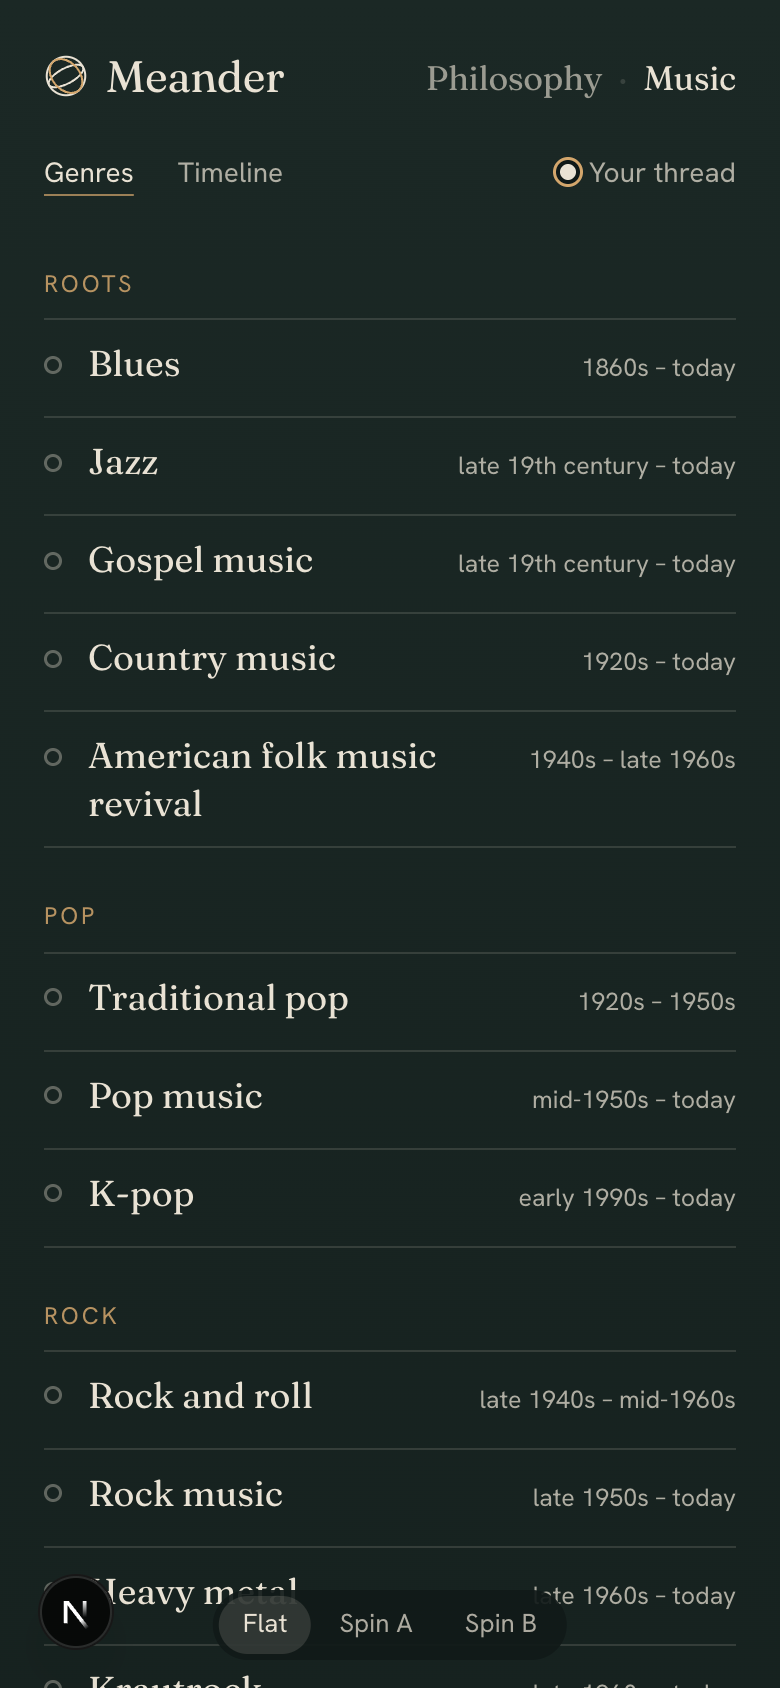
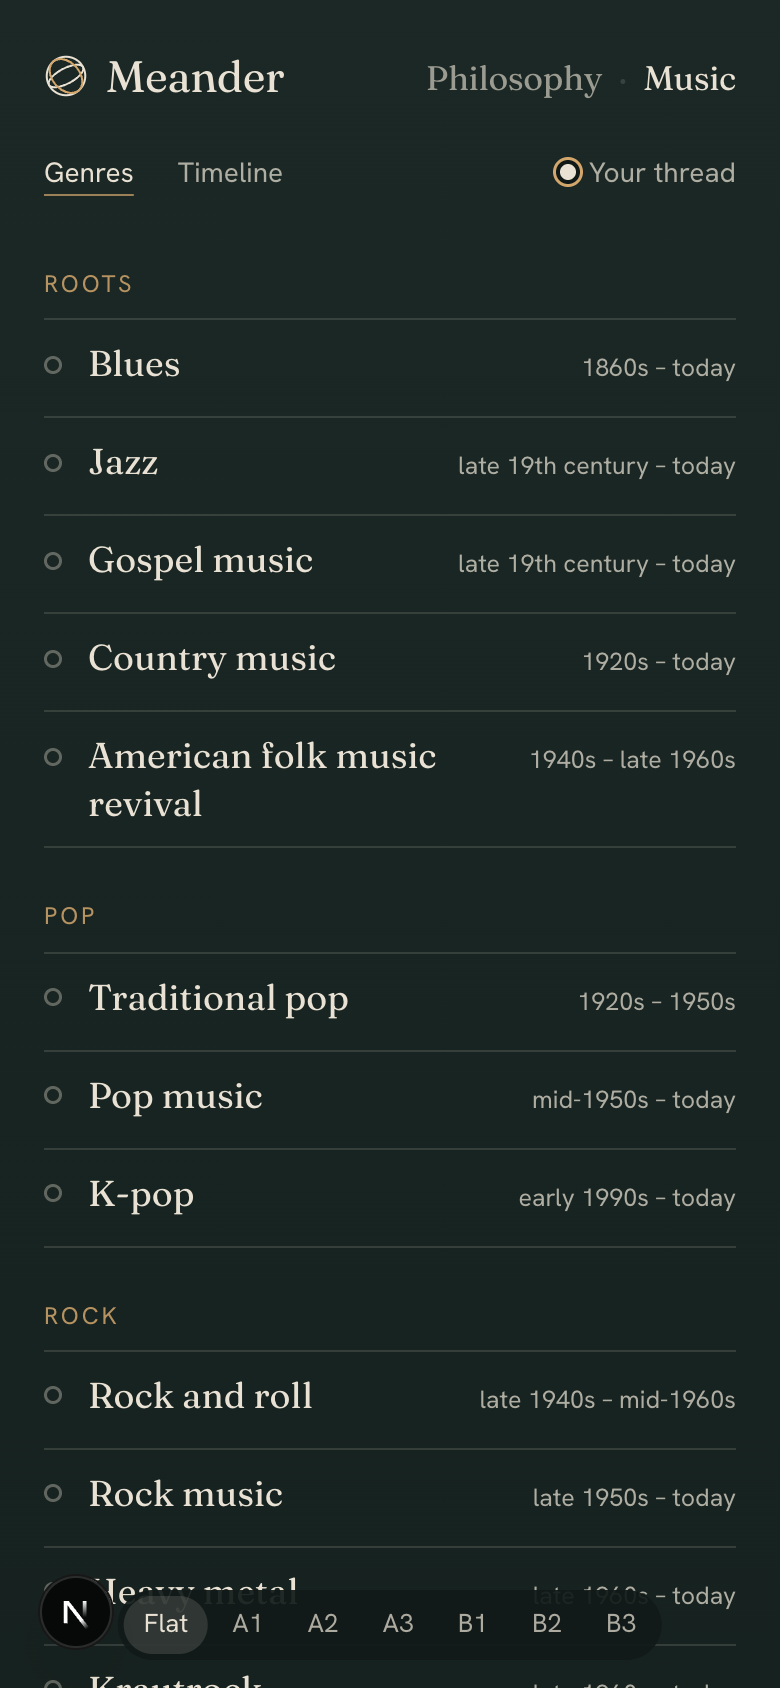
11 Meander: phase 5 prototype as two families of three globes (A light overview, B pure spin), contact sheets

diff --git a/apps/11-meander/src/components/spin-globe.tsx b/apps/11-meander/src/components/spin-globe.tsx
@@ -1,18 +1,35 @@
 "use client";
 
 // Phase 5 prototype (L62): a real globe you spin. The front half shows; drag spins it (with inertia), arrow keys
-// turn it, and opening a school turns it to the front. Mode "a" keeps a light overview: faint dots for the back
-// half, neighbours round the back pinned to the rim, and the family list as the whole map. Mode "b" is pure spin.
+// turn it, and opening a school turns it to the front. Two families of directions, three each:
+//  A, spin with a light overview (neighbours round the back always pinned to the rim):
+//   a1 faint back-side dots + "The whole map" family list; a2 a small flat mini-map of everything, with the part
+//   you face ringed; a3 family names floating over their regions, the back ones faint, plus back-side dots.
+//  B, pure spin (nothing stands in for the back half):
+//   b1 the plain globe; b2 close-up, a bigger globe rising from the bottom like a horizon; b3 spotlight, names only
+//   near the middle, so a name appears as you turn it towards you.
 // shortcut: prototype quality (no label cost search, no tab order by distance); rebuild properly once picked.
 import { useEffect, useLayoutEffect, useMemo, useRef, useState, type ReactNode } from "react";
 import { splitName, type Field } from "@/lib/content";
-import { vec, type Vec3 } from "@/lib/globe";
-import { arcPath, centroid, clampPitch, facingRot, graticule, lerpRot, ortho, placeSpinLabels, type Box, type Rot } from "@/lib/spin";
+import { GAMMA, RIM, project, vec, type Vec3 } from "@/lib/globe";
+import { arcPath, centroid, clampPitch, facingRot, frontOf, graticule, lerpRot, ortho, placeSpinLabels, type Box, type Rot } from "@/lib/spin";
+
+export type SpinVariant = "a1" | "a2" | "a3" | "b1" | "b2" | "b3";
+/** Families for music; Western and Eastern for philosophy. */
+export function groupsOf(field: Field) {
+  return field.families.length
+    ? field.families.map((f) => ({ id: f.id, name: f.name, schools: field.schools.filter((s) => s.family === f.id) }))
+    : [
+      { id: "west", name: "Western", schools: field.schools.filter((s) => s.tradition !== "eastern") },
+      { id: "east", name: "Eastern", schools: field.schools.filter((s) => s.tradition === "eastern") },
+    ];
+}
 import { stateLabel, type SchoolState } from "@/lib/progress";
+import type { GlobeMode } from "@/lib/globe-proto";
 
 type Props = {
   field: Field;
-  mode: "a" | "b";
+  mode: SpinVariant;
   focus: string | null;
   states: Map<string, SchoolState>;
   onOpen: (id: string) => void;
@@ -37,7 +54,12 @@ type Props = {
 const reduced = () => typeof window !== "undefined" && window.matchMedia("(prefers-reduced-motion: reduce)").matches;
 const ease = (t: number) => (t < 0.5 ? 4 * t * t * t : 1 - Math.pow(-2 * t + 2, 3) / 2);
 
-export function SpinGlobe({ field, mode, focus, states, onOpen, C, R, W, H, fixed, compact, inert, litIds, turnTo, idPrefix, children }: Props) {
+export function SpinGlobe({ field, mode, focus, states, onOpen, C: C0, R: R0, W, H, fixed, compact, inert, litIds, turnTo, idPrefix, children }: Props) {
+  const fam = mode[0] as "a" | "b";
+  // b2: a close-up globe rising from the bottom (back to normal size while a card is open, so it clears the card)
+  const big = mode === "b2" && !focus;
+  const R = big ? R0 * 1.42 : R0;
+  const C: [number, number] = big ? [C0[0], C0[1] + R0 * 0.38] : C0;
   const V = useMemo(() => Object.fromEntries(field.schools.map((s) => [s.id, vec(field.positions[s.id])])) as Record<string, Vec3>, [field]);
   const start = useMemo(() => {
     const r = facingRot(focus ? V[focus] : centroid(Object.values(V)));
@@ -157,7 +179,7 @@ export function SpinGlobe({ field, mode, focus, states, onOpen, C, R, W, H, fixe
   const sizeKey = (id: string) => `${id}|${near.has(id) ? 1 : 0}`;
   const sizeOf = (id: string) => sizes.get(sizeKey(id)) ?? { w: label(id).length * (near.has(id) ? 11 : 7.6), h: near.has(id) ? 44 : 19 };
   // Labels: neighbours first, then the nearest the front; none for the rim band, where names would squash.
-  const minZ = compact ? 0.42 : 0.34;
+  const minZ = mode === "b3" ? (compact ? 0.82 : 0.78) : compact ? 0.42 : 0.34;
   const wanted = front
     .filter((s) => near.has(s.id) || (!focus && P[s.id].z > minZ))
     .sort((a, b) => (near.has(a.id) ? 0 : 1) - (near.has(b.id) ? 0 : 1) || P[b.id].z - P[a.id].z)
@@ -166,7 +188,7 @@ export function SpinGlobe({ field, mode, focus, states, onOpen, C, R, W, H, fixe
   const placed = placeSpinLabels(wanted, [...fixed, ...title], C, W, H);
 
   // A, focus: neighbours round the back, pinned to the rim in their direction, so the card's neighbours are all on screen.
-  const rim = mode === "a" && focus && !compact
+  const rim = fam === "a" && focus && !compact
     ? back.filter((s) => near.has(s.id)).map((s) => {
       const p = P[s.id], dx = p.x - C[0], dy = p.y - C[1], l = Math.hypot(dx, dy) || 1;
       const x = C[0] + (dx / l) * (R + 10), w = sizeOf(s.id).w;
@@ -181,9 +203,21 @@ export function SpinGlobe({ field, mode, focus, states, onOpen, C, R, W, H, fixe
     const cls = ["th", isF && "focus", isF && l.type === "against" && "against", isF && l.type === "built-then-against" && "mixed", !!focus && !isF && "rest", lit && lit.has(l.from) && lit.has(l.to) && (hoverId === l.from || hoverId === l.to || !!litIds) && "lit"]
       .filter(Boolean).join(" ");
     return { key: `${l.from}-${l.to}`, cls, d: arcPath(V[l.from], V[l.to], rot, C, R) };
-  }).filter((p) => p.d && (!focus || !p.cls.includes("rest") || mode === "a"));
+  }).filter((p) => p.d && (!focus || !p.cls.includes("rest") || fam === "a"));
 
   const grat = graticule(rot, C, R);
+
+  // a2: the whole field as today's flat disc, small, turned to whatever faces you; the ring is the half you can see.
+  const mini = mode === "a2" && !focus ? (() => {
+    const r = compact ? 46 : 92, MC: [number, number] = compact ? [W - r - 6, r + 6] : [W - r - 52, H - r - 60];
+    const f = frontOf(rot);
+    return { MC, r, ring: r * Math.min(RIM, Math.pow(0.5, GAMMA)), dots: field.schools.map((s) => ({ id: s.id, ...project(f, V[s.id], MC, r) })) };
+  })() : null;
+  // a3: family names over their regions, faint when round the back.
+  const regions = mode === "a3" && !focus ? groupsOf(field).filter((g) => g.schools.length).map((g) => {
+    const p = ortho(centroid(g.schools.map((s) => V[s.id])), rot, C, R * 0.86);
+    return { id: g.id, name: g.name, ...p };
+  }) : [];
 
   return (
     <div
@@ -211,13 +245,23 @@ export function SpinGlobe({ field, mode, focus, states, onOpen, C, R, W, H, fixe
         <circle cx={C[0]} cy={C[1]} r={R} fill={`url(#${idPrefix}-lit)`} />
         <path className="grat" d={grat} />
         <circle className="rim" cx={C[0]} cy={C[1]} r={R} />
-        {mode === "a" && back.map((s) => (
+        {(mode === "a1" || mode === "a3") && back.map((s) => (
           <circle key={s.id} className={["bk", lit?.has(s.id) && "lit", near.has(s.id) && "near"].filter(Boolean).join(" ")} cx={P[s.id].x} cy={P[s.id].y} r={compact ? 1.4 : 1.8} />
+        ))}
+        {regions.map((g) => (
+          <text key={g.id} className={g.z > 0 ? "region" : "region back"} x={g.x} y={g.y} textAnchor="middle">{g.name}</text>
         ))}
         <g mask={`url(#${idPrefix}-ko)`}>
           {paths.map((p) => <path key={p.key} className={p.cls} d={p.d} />)}
         </g>
       </svg>
+      {mini && (
+        <svg className="mini" aria-hidden="true" width={W} height={H}>
+          <circle cx={mini.MC[0]} cy={mini.MC[1]} r={mini.r + 4} className="mbg" />
+          <circle cx={mini.MC[0]} cy={mini.MC[1]} r={mini.ring} className="mring" />
+          {mini.dots.map((d) => <circle key={d.id} cx={d.x} cy={d.y} r={compact ? 1.3 : 1.8} className={d.theta < 90 ? "md in" : "md"} />)}
+        </svg>
+      )}
       <main inert={inert}>
         {front.map((s) => {
           const p = P[s.id], st = states.get(s.id), v = st === "started" || st === "explored", pl = placed[s.id], n = near.get(s.id);
@@ -265,12 +309,7 @@ export function SpinGlobe({ field, mode, focus, states, onOpen, C, R, W, H, fixe
 export function GlobeIndex({ field, onLight, onTurn, onOpen, states }: {
   field: Field; onLight: (ids: Set<string> | null) => void; onTurn: (v: Vec3) => void; onOpen: (id: string) => void; states: Map<string, SchoolState>;
 }) {
-  const groups = field.families.length
-    ? field.families.map((f) => ({ id: f.id, name: f.name, schools: field.schools.filter((s) => s.family === f.id) }))
-    : [
-      { id: "west", name: "Western", schools: field.schools.filter((s) => s.tradition !== "eastern") },
-      { id: "east", name: "Eastern", schools: field.schools.filter((s) => s.tradition === "eastern") },
-    ];
+  const groups = groupsOf(field);
   const [open, setOpen] = useState<string | null>(null);
   return (
     <nav className="gindex" aria-label="The whole map" onPointerDown={(e) => e.stopPropagation()} onMouseLeave={() => onLight(null)}>
@@ -303,11 +342,11 @@ export function GlobeIndex({ field, onLight, onTurn, onOpen, states }: {
   );
 }
 
-/** Prototype only: Flat · Spin A · Spin B, in a corner. */
-export function GlobeSwitch({ mode, setMode }: { mode: string; setMode: (m: "flat" | "a" | "b") => void }) {
+/** Prototype only: Flat · A1 A2 A3 (light overview) · B1 B2 B3 (pure spin), in a corner. */
+export function GlobeSwitch({ mode, setMode }: { mode: string; setMode: (m: GlobeMode) => void }) {
   return (
     <div className="gswitch" role="radiogroup" aria-label="Globe prototype" onPointerDown={(e) => e.stopPropagation()}>
-      {([["flat", "Flat"], ["a", "Spin A"], ["b", "Spin B"]] as const).map(([m, t]) => (
+      {([["flat", "Flat"], ["a1", "A1"], ["a2", "A2"], ["a3", "A3"], ["b1", "B1"], ["b2", "B2"], ["b3", "B3"]] as const).map(([m, t]) => (
         <button key={m} type="button" role="radio" aria-checked={mode === m} className={mode === m ? "on" : undefined} onClick={() => setMode(m)}>{t}</button>
       ))}
     </div>

diff --git a/apps/11-meander/src/components/globe-view.tsx b/apps/11-meander/src/components/globe-view.tsx
@@ -16,7 +16,7 @@ import { FirstPage, Knot } from "./skeleton";
 import { stateLabel } from "@/lib/progress";
 import type { Nav } from "./meander";
 import { useGlobeMode } from "@/lib/globe-proto";
-import { GlobeIndex, GlobeSwitch, SpinGlobe } from "./spin-globe";
+import { GlobeIndex, GlobeSwitch, SpinGlobe, type SpinVariant } from "./spin-globe";
 
 const W = 1440, H = 900;
 // SSR and the browser must print the same numbers, so positions are rounded to 0.1 px.
@@ -284,9 +284,9 @@ export function GlobeView({ nav }: { nav: Nav }) {
         {spin ? (
           <SpinGlobe
             key={field.id}
-            field={field} mode={gmode as "a" | "b"} focus={focus} states={states} onOpen={(id) => { setLitIds(null); nav.openSchool(id); }}
+            field={field} mode={gmode as SpinVariant} focus={focus} states={states} onOpen={(id) => { setLitIds(null); nav.openSchool(id); }}
             C={C} R={R} W={W} H={H} inert={inside || timeline} litIds={focus ? null : litIds} turnTo={turnTo} idPrefix="desk"
-            fixed={[{ x: 0, y: 0, w: W, h: 84 }, ...(hasCard ? [{ x: 990, y: 0, w: 450, h: H }] : []), ...(gmode === "a" && !hasCard ? [{ x: 30, y: 96, w: 270, h: 780 }] : [])]}
+            fixed={[{ x: 0, y: 0, w: W, h: 84 }, ...(hasCard ? [{ x: 990, y: 0, w: 450, h: H }] : []), ...(gmode === "a1" && !hasCard ? [{ x: 30, y: 96, w: 270, h: 780 }] : [])]}
           >
             {titleEl}
           </SpinGlobe>
@@ -365,7 +365,7 @@ export function GlobeView({ nav }: { nav: Nav }) {
         </div>
         </>
         )}
-        {gmode === "a" && !hasCard && !timeline && !inside && (
+        {gmode === "a1" && !hasCard && !timeline && !inside && (
           <GlobeIndex field={field} states={states} onLight={setLitIds} onOpen={(id) => { setLitIds(null); nav.openSchool(id); }} onTurn={(v) => setTurnTo((t) => ({ v, n: (t?.n ?? 0) + 1 }))} />
         )}
         <GlobeSwitch mode={gmode} setMode={setGmode} />

diff --git a/apps/11-meander/src/components/phone-view.tsx b/apps/11-meander/src/components/phone-view.tsx
@@ -12,7 +12,7 @@ import { FieldSwitch, MenuBar } from "./menu-bar";
 import { stateLabel } from "@/lib/progress";
 import type { Nav } from "./meander";
 import { useGlobeMode } from "@/lib/globe-proto";
-import { GlobeSwitch, SpinGlobe } from "./spin-globe";
+import { GlobeSwitch, SpinGlobe, type SpinVariant } from "./spin-globe";
 
 export function PhoneView({ nav }: { nav: Nav }) {
   const { focus, thinker, threadOpen, inside, states, field } = nav;
@@ -205,11 +205,11 @@ export function PhoneView({ nav }: { nav: Nav }) {
       <MenuBar nav={nav} phone />
       {gmode !== "flat" && !threadOpen && !school && nav.view !== "timeline" ? (
         <main>
-          <div className={gmode === "b" ? "spin-phone big" : "spin-phone"}>
-            <SpinGlobe key={`${field.id}-${gmode}`} field={field} mode={gmode} focus={null} states={states} onOpen={nav.openSchool} compact idPrefix="ph"
-              C={gmode === "b" ? [180, 220] : [180, 180]} R={gmode === "b" ? 172 : 160} W={360} H={gmode === "b" ? 440 : 360} fixed={[]} />
+          <div className={gmode[0] === "b" ? "spin-phone big" : "spin-phone"}>
+            <SpinGlobe key={`${field.id}-${gmode}`} field={field} mode={gmode as SpinVariant} focus={null} states={states} onOpen={nav.openSchool} compact idPrefix="ph"
+              C={gmode[0] === "b" ? [180, 220] : [180, 180]} R={gmode[0] === "b" ? 172 : 160} W={360} H={gmode[0] === "b" ? 440 : 360} fixed={[]} />
           </div>
-          {gmode === "a" ? body : <p className="spin-hint">Drag to turn the globe. Tap a name to open it.</p>}
+          {gmode[0] === "a" ? body : <p className="spin-hint">Drag to turn the globe. Tap a name to open it.</p>}
         </main>
       ) : (
         <main>{body}</main>

diff --git a/apps/11-meander/src/app/globals.css b/apps/11-meander/src/app/globals.css
@@ -613,7 +613,7 @@ svg.ov .bead { fill: var(--bone); transition: opacity 200ms ease; }
 .globe.spin .rimn .dot { background: var(--brass); }
 .globe.spin.compact { position: relative; width: 360px; height: 100%; margin: 0 auto; }
 .globe.spin.compact .n b { font-size: 13px; }
-.spin-phone { height: 360px; margin: 4px -4px 12px; }
+.spin-phone { height: 360px; margin: 4px -4px 12px; overflow: hidden; }
 .spin-phone.big { height: 440px; }
 .spin-hint { text-align: center; color: var(--quiet); font-size: 14px; margin-top: 8px; }
 .gindex { position: absolute; left: 44px; top: 118px; width: 250px; max-height: 740px; overflow-y: auto; z-index: 2; }
@@ -633,3 +633,12 @@ svg.ov .bead { fill: var(--bone); transition: opacity 200ms ease; }
 .gswitch button { padding: 5px 12px; border-radius: 999px; color: var(--quiet); }
 .gswitch button.on { background: rgba(233, 226, 212, 0.14); color: var(--bone); }
 .globe.spin .measure { position: absolute; left: 0; top: 0; visibility: hidden; pointer-events: none; }
+.globe.spin svg.mini { position: absolute; left: 0; top: 0; pointer-events: none; overflow: visible; }
+.globe.spin .mbg { fill: rgba(12, 20, 19, 0.7); stroke: #e9e2d4; stroke-opacity: 0.12; }
+.globe.spin .mring { fill: rgba(233, 226, 212, 0.05); stroke: var(--brass); stroke-opacity: 0.6; stroke-width: 1; }
+.globe.spin .md { fill: #e9e2d4; fill-opacity: 0.3; }
+.globe.spin .md.in { fill-opacity: 0.9; }
+.globe.spin .region { font: 500 11px/1 var(--sans); letter-spacing: 0.14em; text-transform: uppercase; fill: var(--brass); fill-opacity: 0.75; pointer-events: none; }
+.globe.spin .region.back { fill-opacity: 0.2; }
+.globe.spin.compact .region { font-size: 9px; }
+.gswitch button { padding: 5px 10px; }

diff --git a/apps/11-meander/src/lib/globe-proto.ts b/apps/11-meander/src/lib/globe-proto.ts
@@ -1,14 +1,15 @@
 "use client";
 
-// Phase 5 prototype switch (L62): today's flattened globe, or a real globe you spin, with a light overview (A) or
-// without (B). `?globe=flat|a|b` in the URL sets it (for screenshots); otherwise the last choice in localStorage.
+// Phase 5 prototype switch (L62): today's flattened globe, or a real globe you spin, in two families of three: with a
+// light overview (a1–a3) or pure spin (b1–b3). `?globe=flat|a1|…|b3` in the URL sets it (for screenshots); otherwise the last choice in localStorage.
 // shortcut: a prototype-only switch; remove it once the owner has picked a globe.
 import { useEffect } from "react";
 import { useLocalStorage } from "./use-local-storage";
 
-export type GlobeMode = "flat" | "a" | "b";
+export type GlobeMode = "flat" | "a1" | "a2" | "a3" | "b1" | "b2" | "b3";
+const MODES: GlobeMode[] = ["flat", "a1", "a2", "a3", "b1", "b2", "b3"];
 const KEY = "11-meander:globe-proto";
-const isMode = (v: unknown): v is GlobeMode => v === "flat" || v === "a" || v === "b";
+const isMode = (v: unknown): v is GlobeMode => MODES.includes(v as GlobeMode);
 
 export function useGlobeMode(): [GlobeMode, (m: GlobeMode) => void] {
   const [stored, setStored] = useLocalStorage<string>(KEY, "flat");

diff --git a/apps/11-meander/src/lib/spin.ts b/apps/11-meander/src/lib/spin.ts
@@ -113,3 +113,10 @@ export function placeSpinLabels(nodes: SpinLabelIn[], fixed: Box[], C: [number, 
   }
   return out;
 }
+
+/** The point on the sphere now facing the viewer (the inverse of `rotate` applied to the front). */
+export function frontOf({ yaw, pitch }: Rot): Vec3 {
+  // undo pitch on [0, 0, 1], then undo yaw
+  const y = Math.sin(pitch), z1 = Math.cos(pitch);
+  return [-z1 * Math.sin(yaw), y, z1 * Math.cos(yaw)];
+}

diff --git a/docs/products/11-meander/journal.md b/docs/products/11-meander/journal.md
@@ -256,3 +256,4 @@ For the shared pages (knowledge bank, problems, learnings, process changes), wri
 - **Ops:** branch `claude/11-meander-phase5-spin-globe-1d8421`, at origin/main (`b4cd864`, PR 108). Weekly usage 64% at the start; guard stops new work at 70%.
 - **Kickoff (L61–L63):** Founder mode again. On "see everything vs find by spinning", the owner wants both explored: A, spin with a light overview, and B, pure spin, next to today's globe (L62). Classical is in as its own family with a timeline back to about 1600 (L63). Kickoff pack and Phase 5 evals written; S1 replaces M1's "all visible" with "reachable in 2 actions".
 - **Prototype slice built (L62):** a real orthographic globe in `src/components/spin-globe.tsx` and `src/lib/spin.ts`, next to the flat one behind a corner switch (Flat · Spin A · Spin B; `?globe=flat|a|b`), on both fields and on the phone overview. Drag spins with inertia (off under reduced motion), arrow keys turn it, opening a genre turns it to the front with the same title and card as today. A adds faint back-side dots, neighbours round the back pinned to the rim ("round the back"), and "The whole map" index (families for music, Western/Eastern for philosophy; hover lights a family, a click turns the globe to it). B is pure spin; on the phone it drops the list. About 22 labels on screen at once against 49 on the flat globe. Labels use a simpler, stable 4-place rule instead of the flat globe's cost search (marked shortcut). Lint, 34 tests and build green. Screenshots: `design/phase5/`.
+- **Owner asked for families, not one of each (28 Nov):** "a few designs with spin and light overview, and a few with just pure spin, so I can see the differences." The switch now has seven globes. **A, light overview:** A1 back dots + the whole-map list, A2 a small flat mini-map of everything with the half you face ringed, A3 family names floating over their regions (faint when round the back); all A's pin back-side neighbours to the rim. **B, pure spin:** B1 plain globe, B2 close-up horizon (a bigger globe rising from the bottom, normal size once a card opens), B3 spotlight (names only near the middle). Contact sheets per family on the same views (music first open, House open, philosophy, phone): `design/phase5/sheet-family-a.png`, `sheet-family-b.png`. Known: on the phone A2's mini-map can cover a name; B's "House open" views look alike, since a card makes B2 normal size and neighbours always get names.
